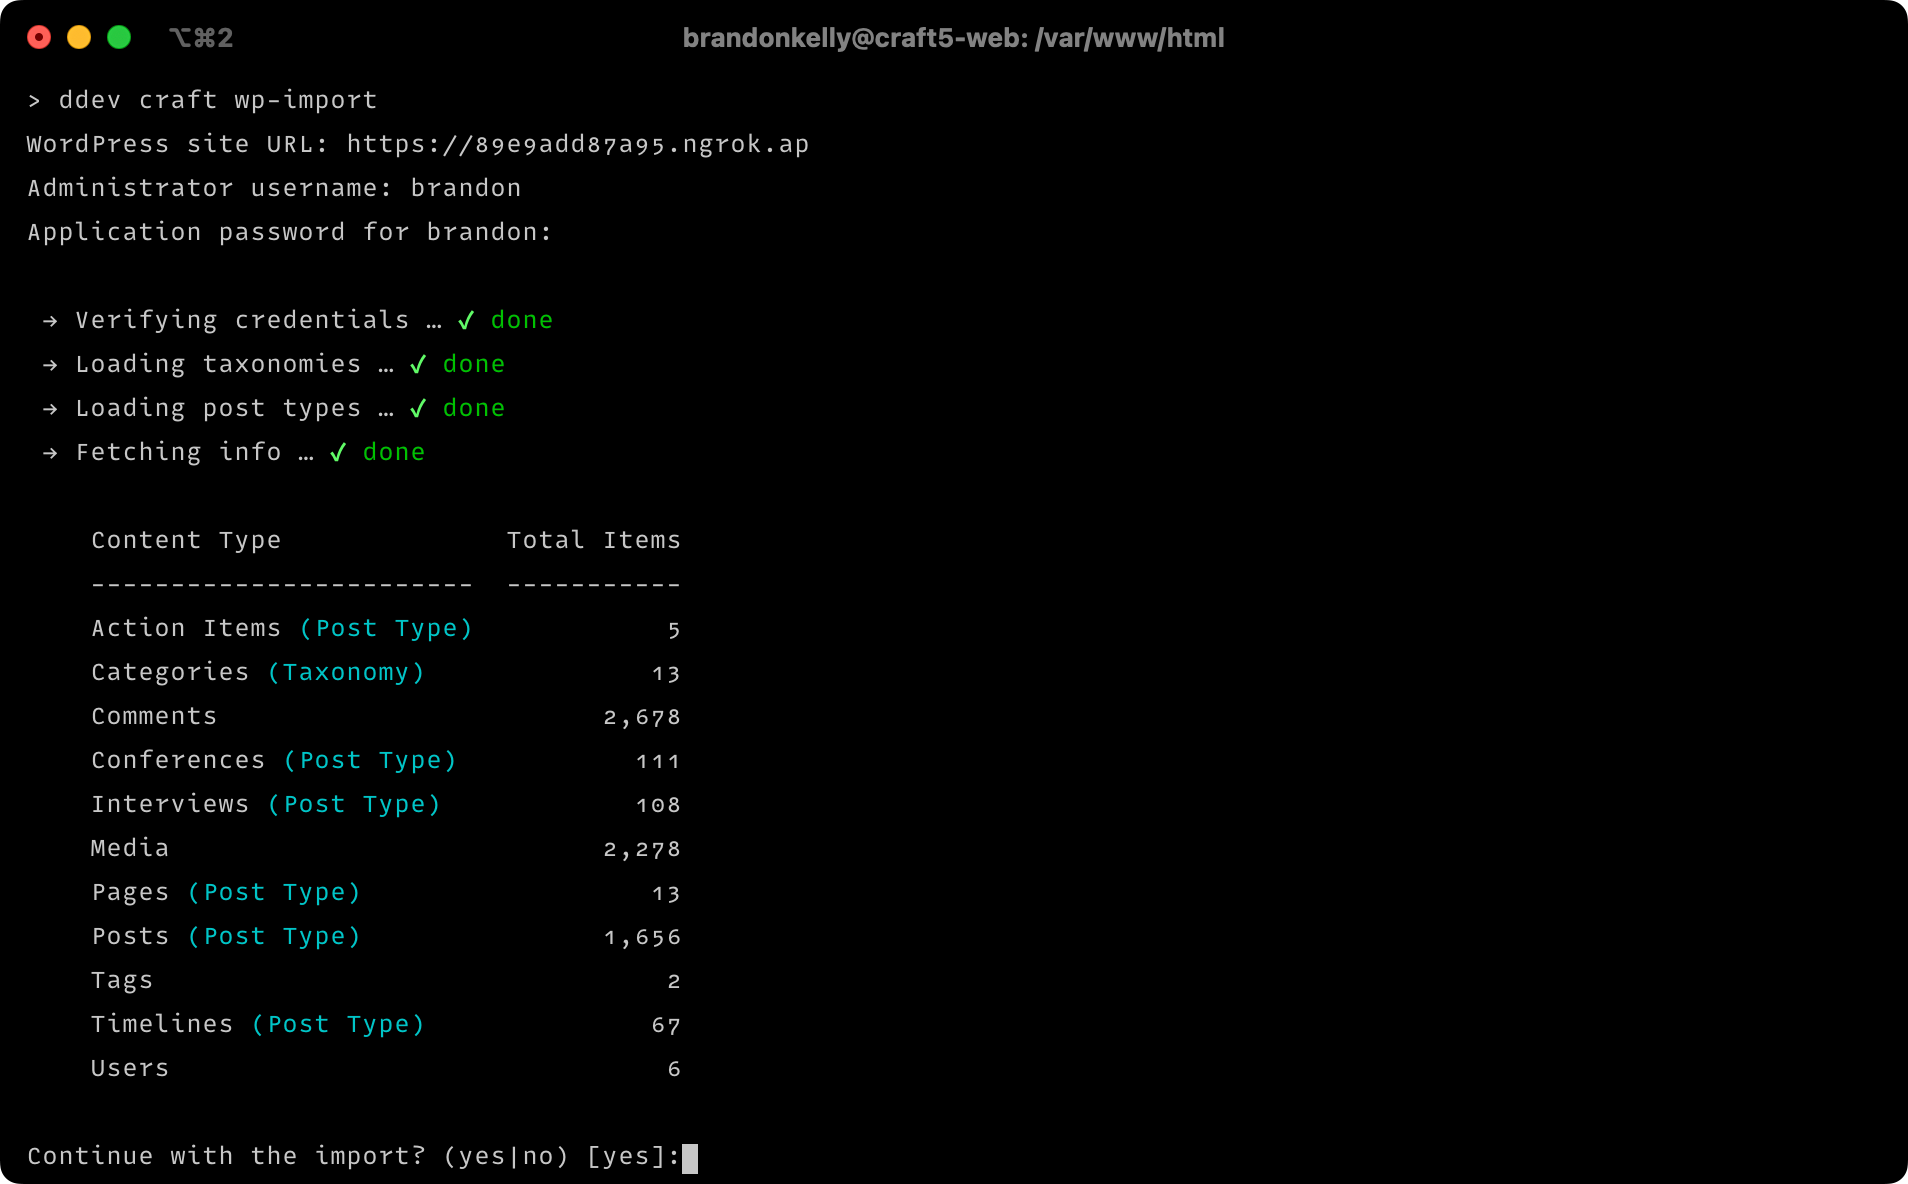
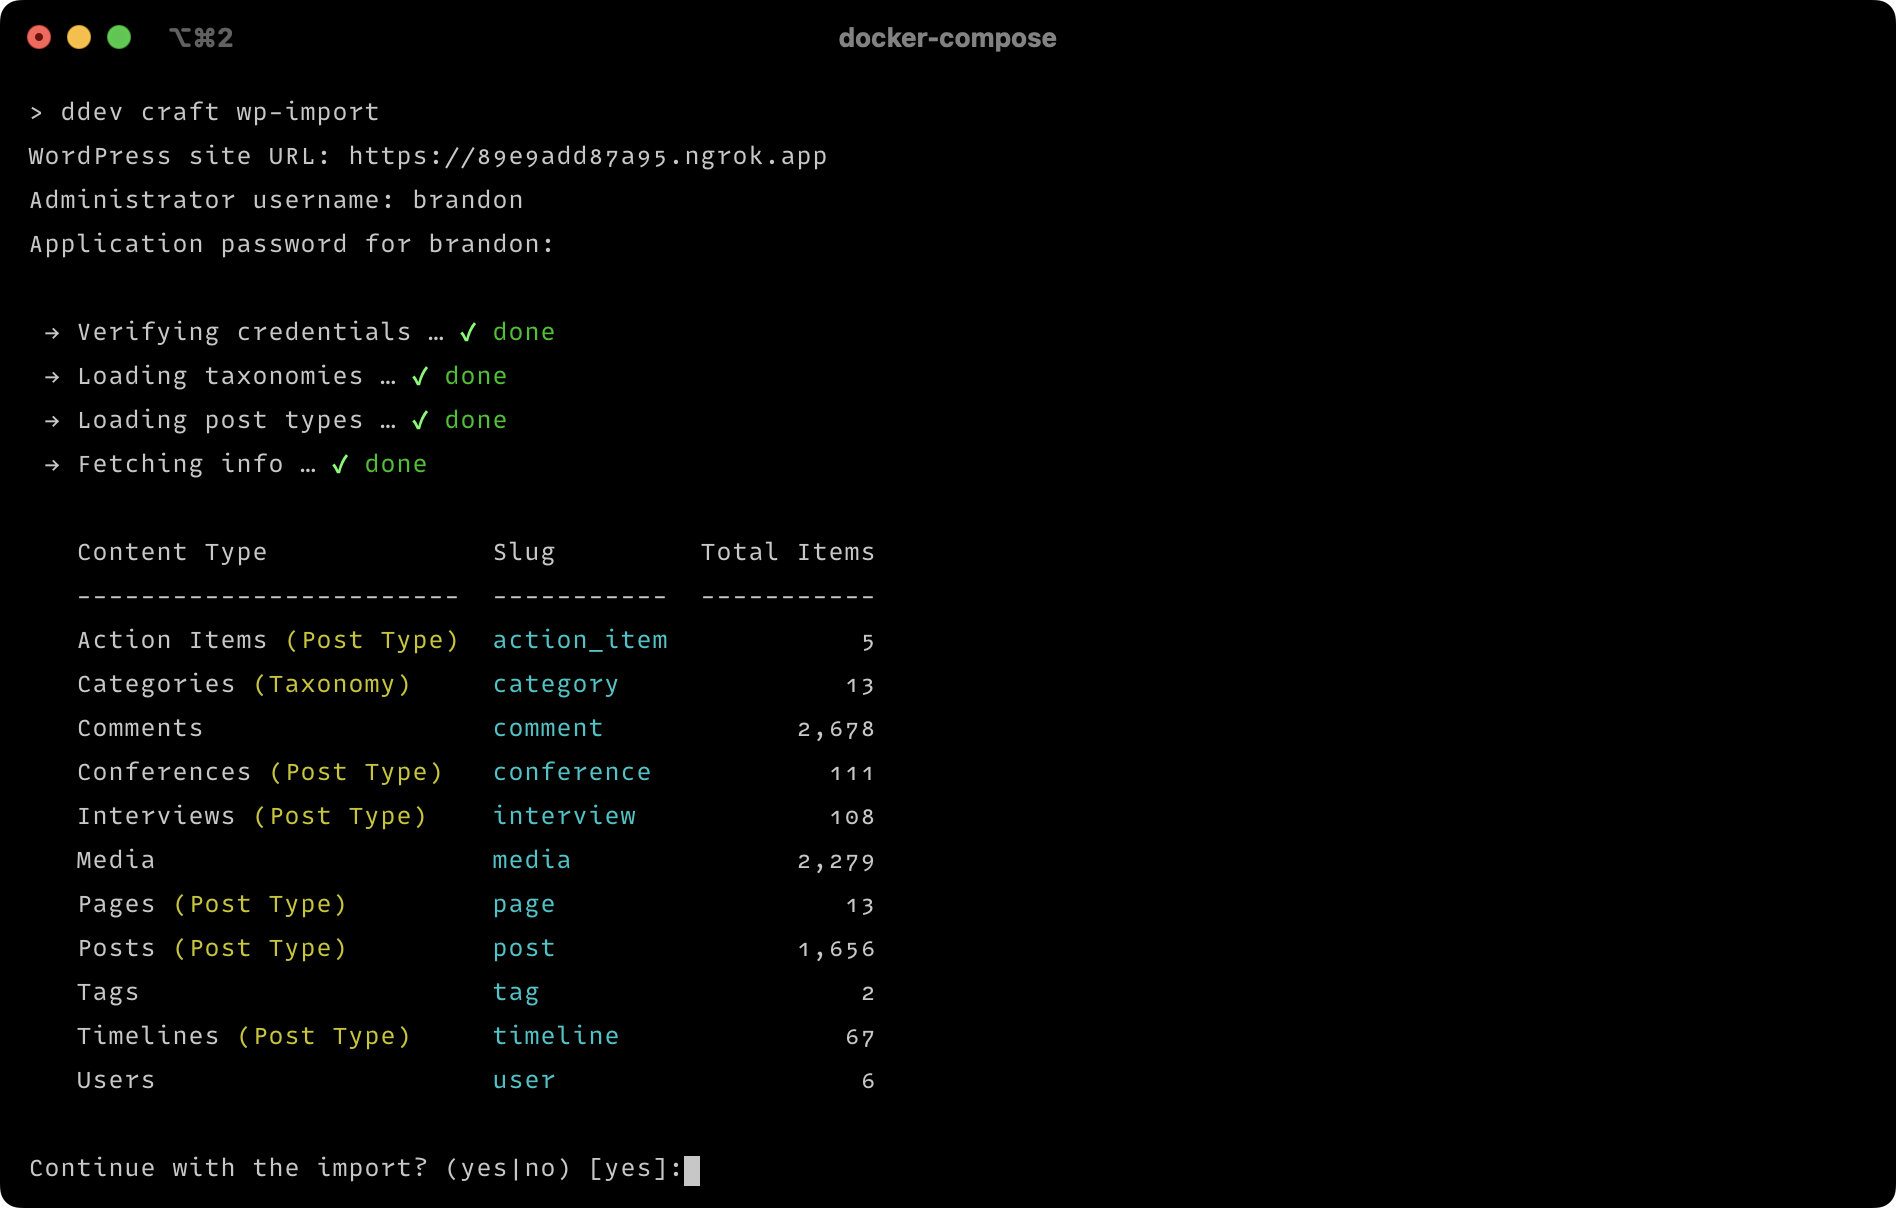
Improved the CLI output

diff --git a/src/Command.php b/src/Command.php
@@ -157,8 +157,8 @@ class Command extends Controller
     public ?string $password = null;
 
     /**
-     * @var string[] The types of items to import (`post`, `page`, `media`,
-     * `category`, `tag`, `user`, `comment`, or a custom post type/taxonomy name)
+     * @var string[] The content types to import (`post`, `page`, `media`,
+     * `category`, `tag`, `user`, `comment`, or a custom post type/taxonomy’s slug)
      */
     public array $type = [];
 
@@ -297,13 +297,14 @@ class Command extends Controller
                         $typeLabel = sprintf('(%s)', $importer->typeLabel());
                         // Console::table() didn't handle sub-value formatting until 5.5.1
                         if ($this->isColorEnabled() && version_compare(Craft::$app->getVersion(), '5.5.1', '>=')) {
-                            $typeLabel = Console::ansiFormat($typeLabel, [Console::FG_CYAN]);
+                            $typeLabel = Console::ansiFormat($typeLabel, [Console::FG_YELLOW]);
                         }
                         $label = sprintf('%s %s', $label, $typeLabel);
                     }
 
                     $totals[] = [
                         $label,
+                        [$importer->slug(), 'format' => [Console::FG_CYAN]],
                         [Craft::$app->formatter->asInteger($this->totalItems($resource)), 'align' => 'right'],
                     ];
                 }
@@ -312,7 +313,7 @@ class Command extends Controller
             $totals = array_values(Arr::sort($totals, fn(array $item) => Console::stripAnsiFormat($item[0])));
 
             $this->stdout("\n");
-            $this->table(['Content Type', 'Total Items'], $totals);
+            $this->table(['Content Type', 'Slug', 'Total Items'], $totals);
             $this->stdout("\n");
             if (!$this->confirm('Continue with the import?', true)) {
                 $this->stdout("Aborting\n\n");
